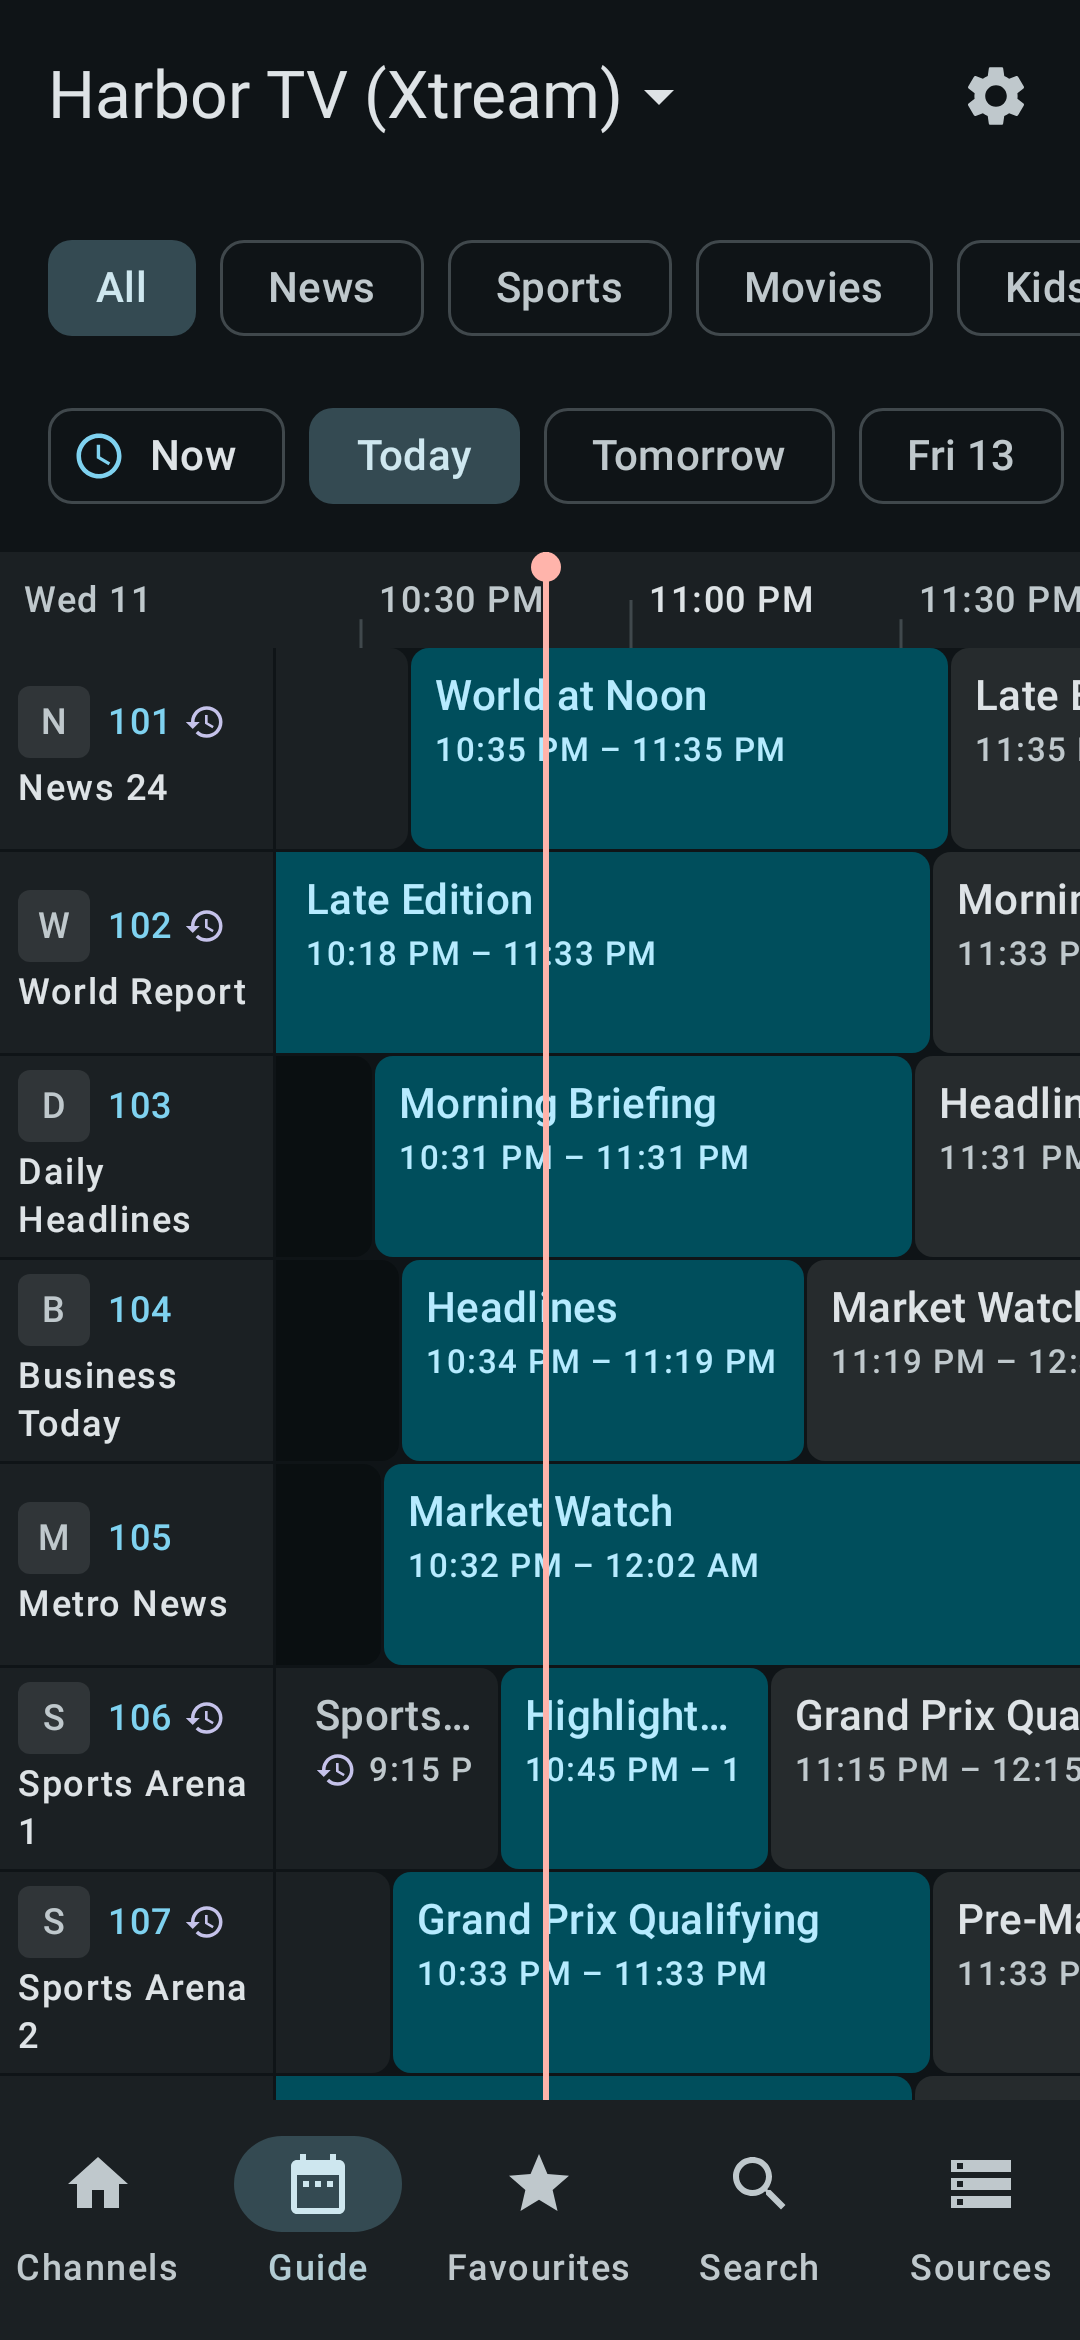
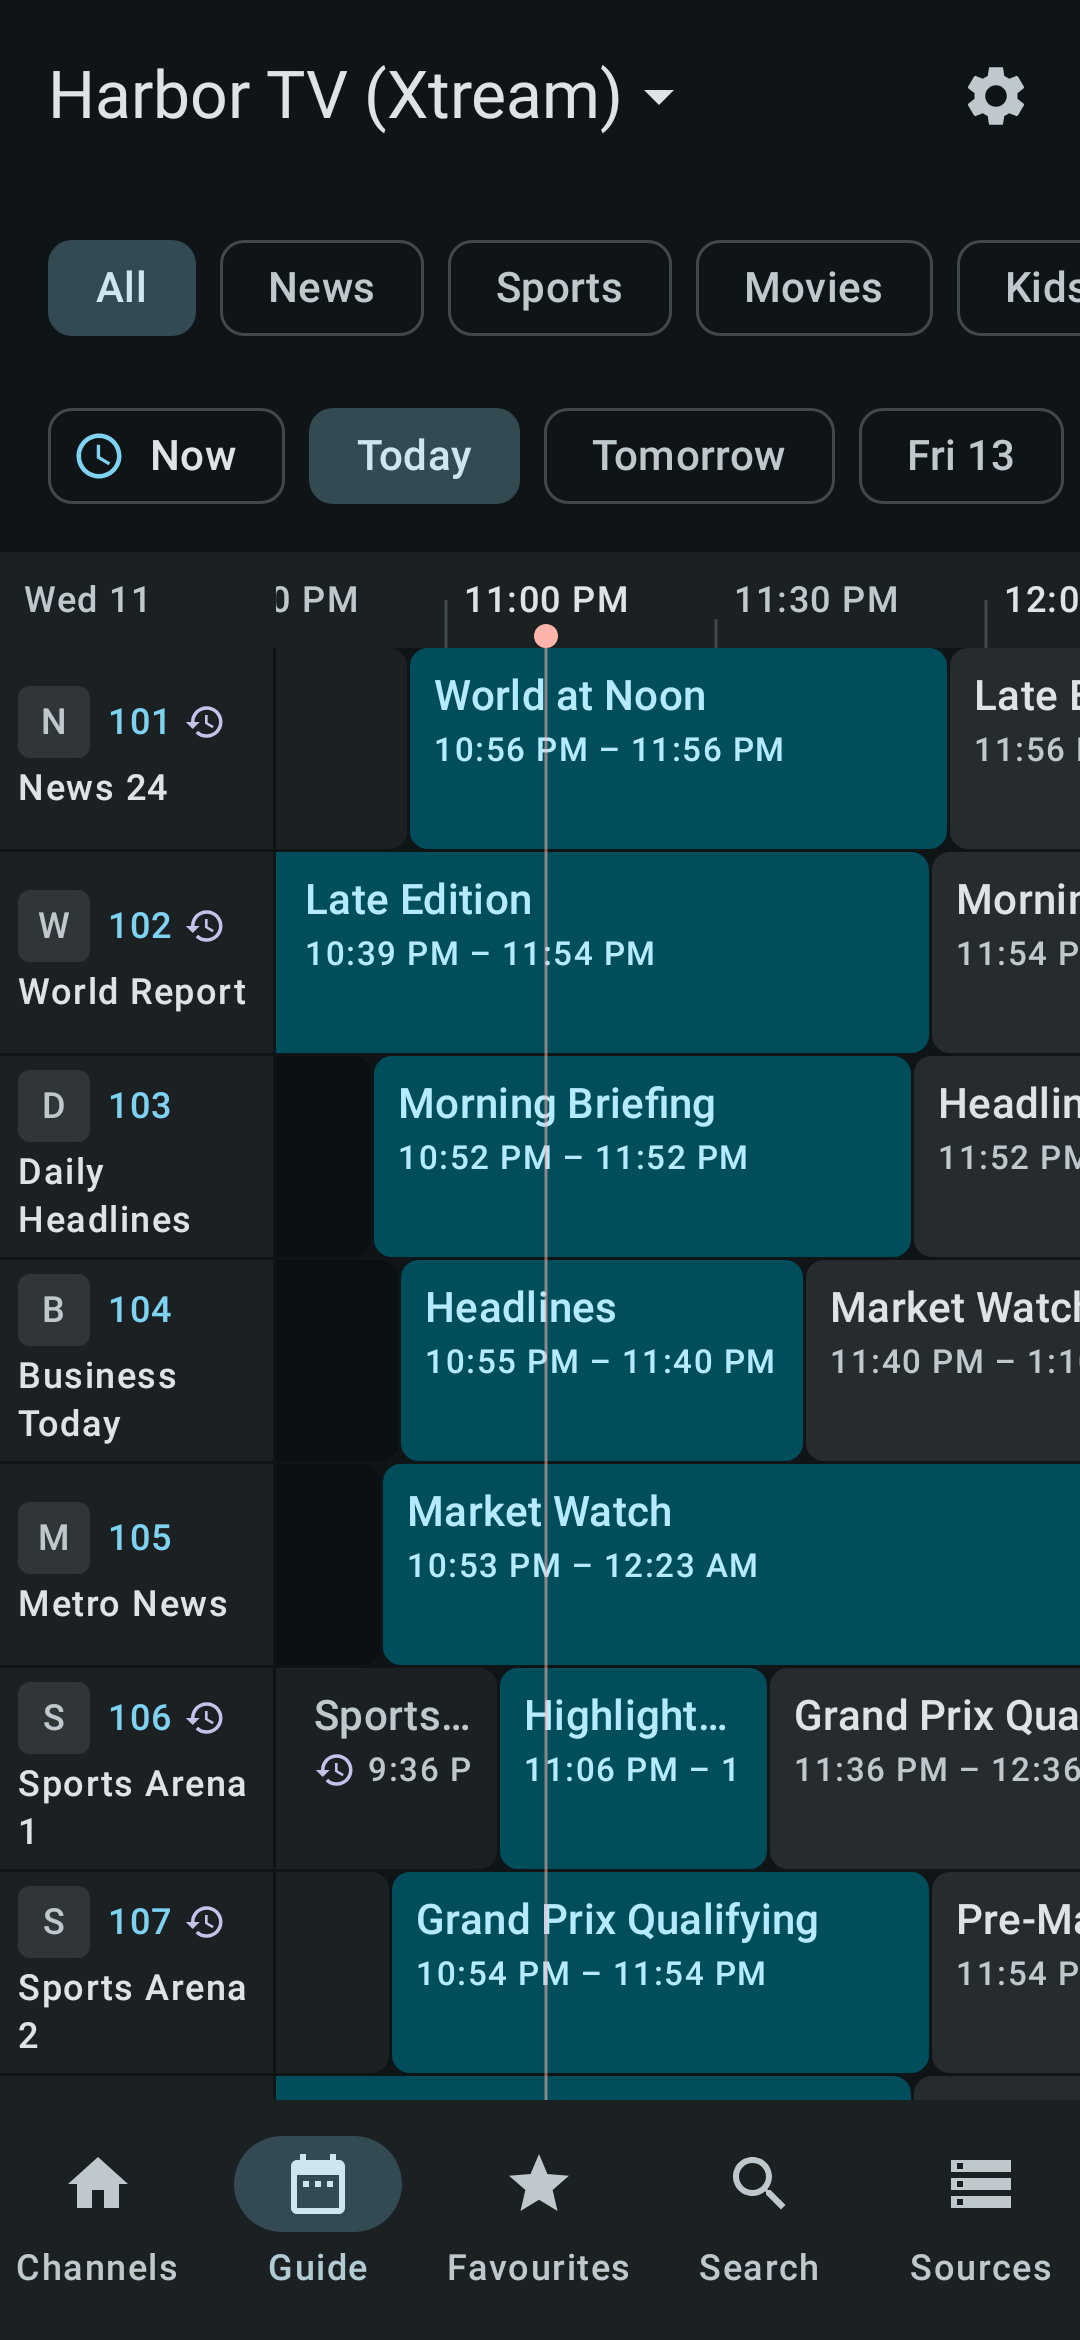
Draw the guide now line thin with the marker in the ruler
Keeps programme text readable; guide screenshots regenerated.

Claude-Session: https://claude.ai/code/session_01Jq1i4o3u5hitZBL4WwE6ht

diff --git a/app/src/main/kotlin/rocks/urzahil/iptv/ui/guide/GuideGrid.kt b/app/src/main/kotlin/rocks/urzahil/iptv/ui/guide/GuideGrid.kt
@@ -140,7 +140,9 @@ fun GuideGrid(
     val nowColor = MaterialTheme.colorScheme.error
     val density = LocalDensity.current
     val channelPx = with(density) { metrics.channelWidth.toPx() }
-    val linePx = with(density) { 2.dp.toPx() }
+    val linePx = with(density) { 1.dp.toPx() }
+    val markerPx = with(density) { 4.dp.toPx() }
+    val rulerPx = with(density) { metrics.rulerHeight.toPx() }
     Column(
         modifier
             .fillMaxSize()
@@ -149,11 +151,12 @@ fun GuideGrid(
             .scrollable(scroll.scrollable, Orientation.Horizontal)
             .drawWithContent {
                 drawContent()
-                // "Now" line over the ruler and all rows; drawn here so it costs no layout or composition.
+                // "Now" marker in the ruler and a thin, translucent line down the rows, so programme titles under
+                // it stay readable. Drawn here so it costs no layout or composition.
                 val x = channelPx + scroll.axis.xOf(nowMs) - scroll.scrollPx
                 if (x >= channelPx && x <= size.width) {
-                    drawLine(nowColor, Offset(x, 0f), Offset(x, size.height), strokeWidth = linePx)
-                    drawCircle(nowColor, radius = linePx * 2.5f, center = Offset(x, linePx * 2.5f))
+                    drawLine(nowColor.copy(alpha = NOW_LINE_ALPHA), Offset(x, rulerPx), Offset(x, size.height), strokeWidth = linePx)
+                    drawCircle(nowColor, radius = markerPx, center = Offset(x, rulerPx - markerPx))
                 }
             },
     ) {
@@ -220,6 +223,7 @@ private fun TimeRuler(scroll: GuideScrollState, labels: TimeLabels, modifier: Mo
 }
 
 private const val TICK_STEP_MS = 30 * 60_000L
+private const val NOW_LINE_ALPHA = 0.55f
 
 @Composable
 private fun GuideRow(
